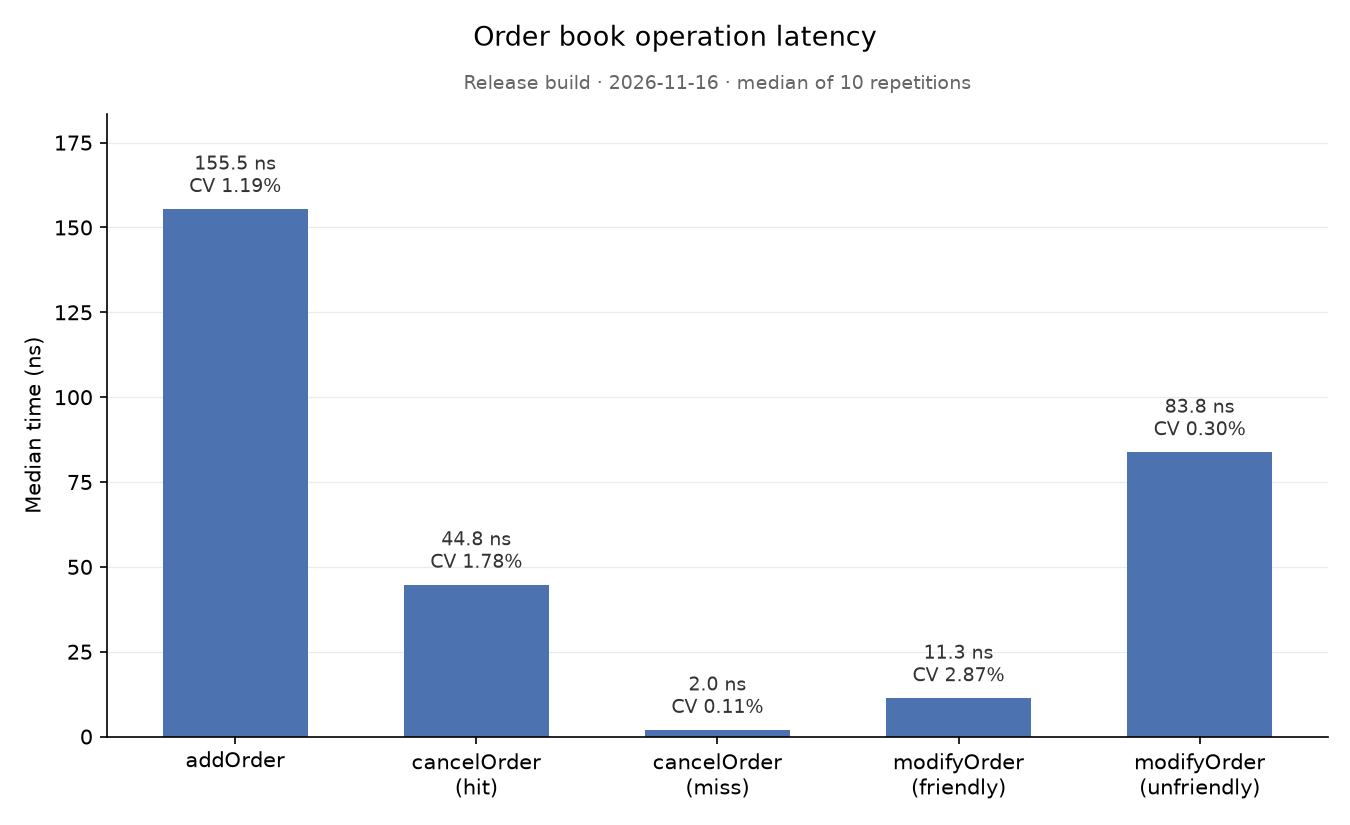
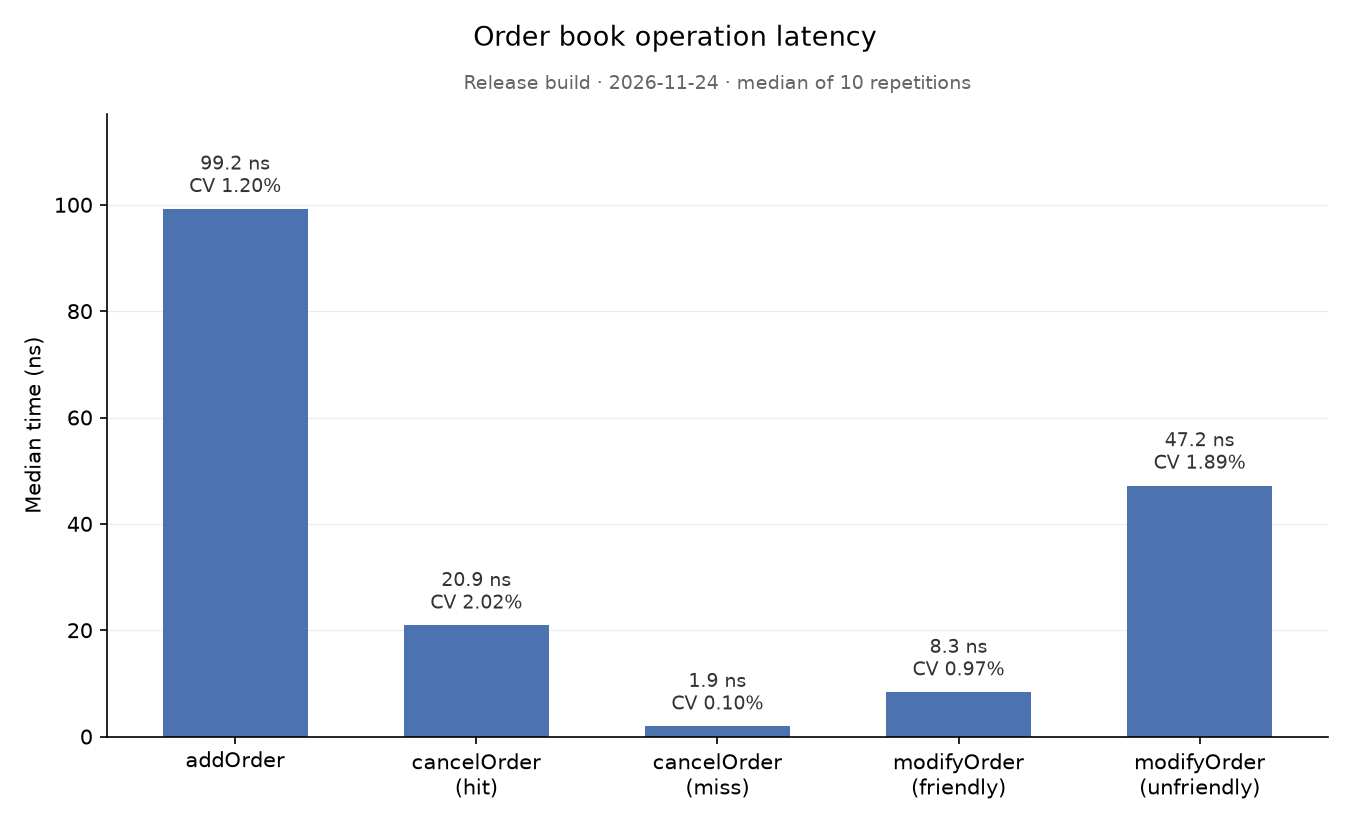
docs: redraw the charts for the pooled engine

diff --git a/README.md b/README.md
@@ -415,12 +415,12 @@ inlining and optimisation and produces numbers unrelated to real behaviour.
 To regenerate the charts from a fresh run:
 
 ```bash
-./build/benchmarks/orderbook_benchmark --benchmark_format=json > benchmarks/results_v2-map.json
+./build/benchmarks/orderbook_benchmark --benchmark_format=json > benchmarks/results_v2-pool.json
 
 cd benchmarks
 python3 -m venv .venv && source .venv/bin/activate   # first time only
 pip install -r requirements.txt
-python3 plot.py results_v2-map.json                   # writes benchmark_plot.png and matching_curves_plot.png
+python3 plot.py results_v2-pool.json                  # writes benchmark_plot.png and matching_curves_plot.png
 ```
 
 `plot.py` takes the results file and the two output paths as optional
@@ -514,25 +514,28 @@ error if the book is not empty afterwards.
 
 | Levels swept, one order each | Median | Orders filled, one level | Median |
 |---|---|---|---|
-| 1 | 141.9 ns | 1 | 141.9 ns |
-| 2 | 261.6 ns | 2 | 224.6 ns |
-| 4 | 492.7 ns | 4 | 368.3 ns |
-| 8 | 924.1 ns | 8 | 651.5 ns |
-| 16 | 1 738.7 ns | 16 | 1 160.4 ns |
-| 32 | 3 361.2 ns | 32 | 2 156.2 ns |
-| 64 | 6 518.5 ns | 64 | 4 108.9 ns |
+| 1 | 92.4 ns | 1 | 92.4 ns |
+| 2 | 175.0 ns | 2 | 144.2 ns |
+| 4 | 335.8 ns | 4 | 227.0 ns |
+| 8 | 634.1 ns | 8 | 405.5 ns |
+| 16 | 1 216.5 ns | 16 | 690.1 ns |
+| 32 | 2 356.7 ns | 32 | 1 274.7 ns |
+| 64 | 4 608.1 ns | 64 | 2 352.2 ns |
 
-Both are straight lines: about **101 ns for each extra level** and **63 ns
-for each extra order**. Sweeping a level that holds one order means filling
-that order and then removing the level, so the difference between the two
-slopes, roughly 38 ns, is the price of removing a level: one node erased from
-the `std::map` and one from the level-totals hash map. The 63 ns per order
-covers unlinking the list node, erasing the `orders_` entry, freeing the
-order and appending a trade.
+These are the current engine's curves, with the order pool. Both are straight
+lines: about **72 ns for each extra level** and **36 ns for each extra
+order**. Sweeping a level that holds one order means filling that order and
+then removing the level, so the difference between the two slopes, roughly
+36 ns, is the price of removing a level: one node erased from the `std::map`
+and one from the level-totals hash map. The 36 ns per order covers unlinking
+the node, erasing the `orders_` entry, returning the slot to the pool and
+appending a trade. On the v2.0.0 engine, run the same day, the slopes were
+97 and 61 ns: the pool made each order cheaper and left the price of removing
+a level where it was.
 
 Two limits of the method. A ladder of 128 000 price levels is not a
 realistic book; it is that long only so that it never runs out. And every
-order is allocated one after another into a fresh heap, so neighbours in the
+order is allocated one after another from a fresh pool, so neighbours in the
 book are neighbours in memory, which a long-lived book would not enjoy. Both
 flatter the absolute numbers. Neither affects a comparison between two
 engines run through the same benchmark, which is what the curves are for.
@@ -721,11 +724,14 @@ These are shares of a shorter operation, so a share can stay put while the
 time it stands for shrinks: the allocation in `addOrder` is about 46 ns
 before and about 28 ns after, and in `cancelOrder` about 30 ns before and
 about 10 ns after. The allocation that left is the one this change targeted.
-Inside the book's own logic (the `Order` and the list node), allocation fell
-from 23% to 13% of `addOrder` and from 26% to 3% of `cancelOrder`. What is
-left of it is almost all the `orders_` hash map: its work and its node
-allocations are now 40% of `addOrder` and 68% of `cancelOrder`, the largest
-single cost in both. That is the next step.
+In the old `cancelOrder` the list node was freed in the book's own logic (26%
+of the operation, now 3%), while the `Order` was freed inside the `orders_`
+erase, which dropped the last reference to it. So the `orders_` column before
+the change includes freeing the `Order`. In `addOrder`, allocation in the
+book's own logic fell from 23% to 13%, and the `trades` vector is part of
+what remains. The `orders_` hash map is now the largest single structure in
+both: 40% of `addOrder` and 68% of `cancelOrder`, its node allocations
+included. That is the next step.
 
 Two limits. The profile shares are good to a few points, and one run of
 `cancelOrder`, whose loop is short, can move by more. And the new book's
@@ -987,8 +993,8 @@ OrderBook/
 
 ## Future work
 
-- **Lookup by order ID.** The `orders_` hash map is now the largest cost of
-  `addOrder` and `cancelOrder`. IDs are sequential, so a plain array indexed
+- **Lookup by order ID.** The `orders_` hash map is now the largest single
+  structure in `addOrder` and `cancelOrder`. IDs are sequential, so a plain array indexed
   by ID could replace it, with the open question of what to do with the slots
   of orders long gone.
 - **One structure per level.** Fold the price map and `LevelData` into one
